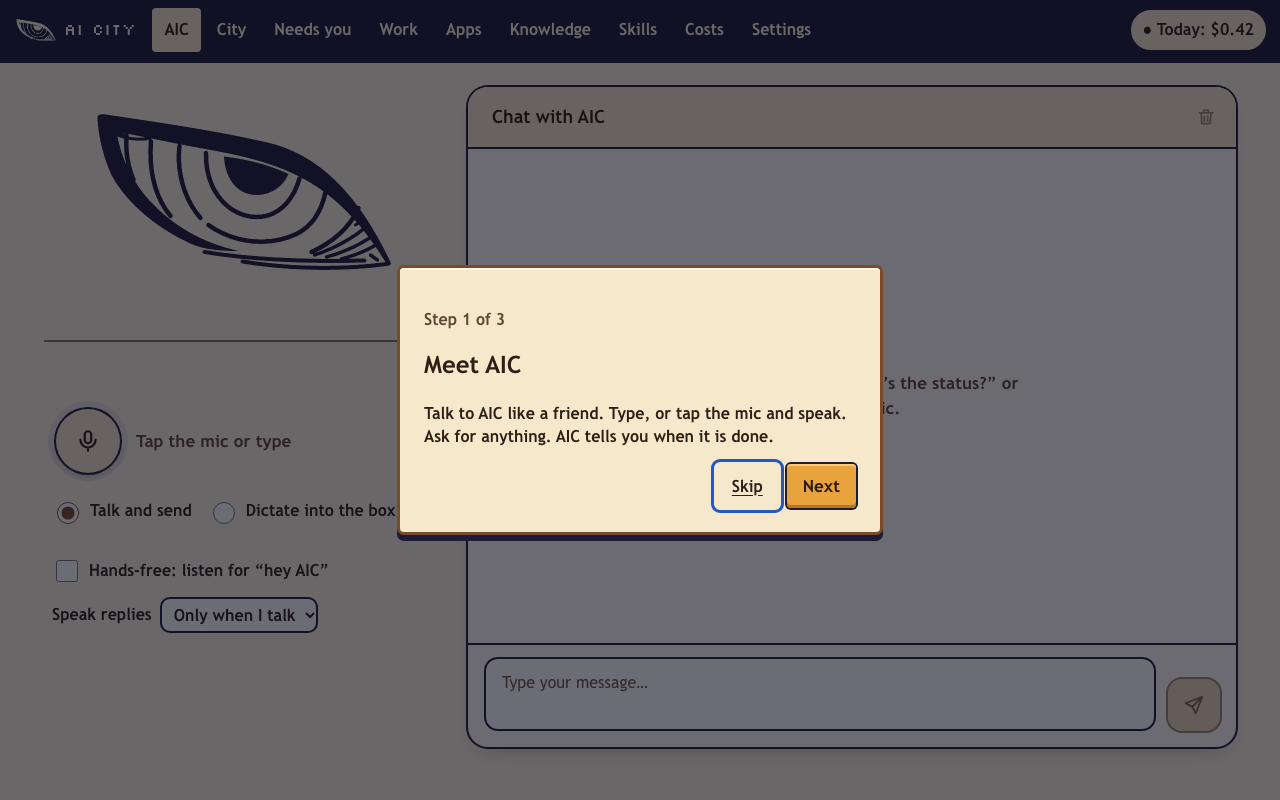
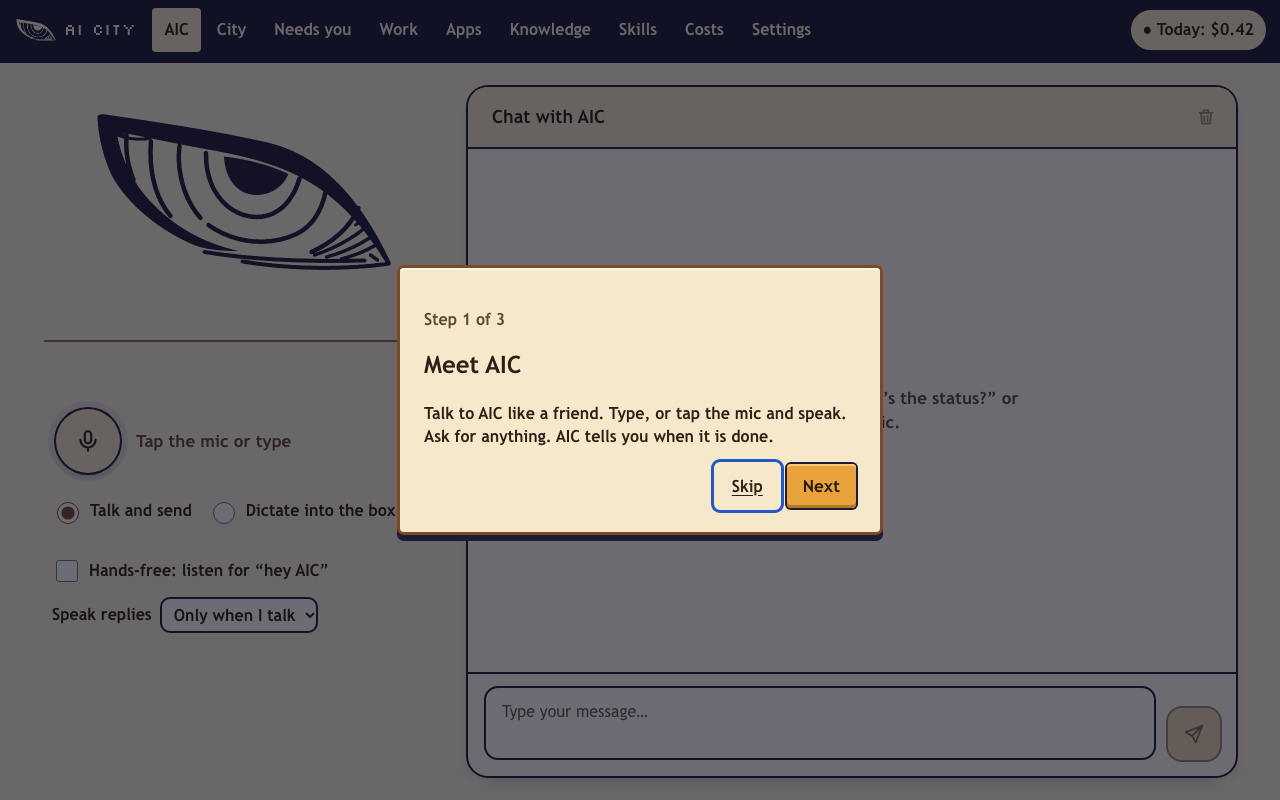
AIC chat: a plain chat, from the top to the bottom of the page
The owner's choice.
- The quick-reply buttons under AIC's replies are removed (chips.ts, their
  rendering, styles, the lastResultAt store field, their tests). Stop all
  work / Resume stays.
- The chat panel runs from just under the top bar to the bottom of the window,
  on desktop and phone: the AIC screen is exactly the area under the top bar,
  the conversation scrolls inside the panel and the message box stays at its
  bottom. The page still never scrolls.

Tests: Playwright checks the panel spans top to bottom with the composer at its
bottom (desktop sizes and 412 px) and that nothing is suggested under a reply
that asks a question; the quick-reply tests are gone.

Changed region(s): [[0.375, 0.8125, 0.9688, 0.9688], [0.6875, 0.4688, 0.8125, 0.5312]]

diff --git a/web/e2e/journeys.spec.ts b/web/e2e/journeys.spec.ts
@@ -504,44 +504,41 @@ test("after a long conversation the AIC screen still fits the window: only the c
       const main = document.querySelector("main")!;
       const chat = document.querySelector(".chat")!;
       const composer = document.querySelector(".composer")!.getBoundingClientRect();
+      const talk = document.querySelector(".talk")!.getBoundingClientRect();
+      const area = main.getBoundingClientRect();
       return {
         page: document.documentElement.scrollHeight <= window.innerHeight + 1,
         main: main.scrollHeight <= main.clientHeight + 1, // the page area never scrolls into empty space
         chatScrolls: chat.scrollHeight > chat.clientHeight,
         composerOnScreen: composer.bottom <= window.innerHeight,
+        // The chat panel runs from just under the top bar to the bottom edge (only the page gutter around it).
+        chatFromTop: talk.top - area.top <= 32,
+        chatToBottom: window.innerHeight - talk.bottom <= 32,
+        composerAtBottom: talk.bottom - composer.bottom <= 4,
       };
     });
-    expect(fit).toEqual({ page: true, main: true, chatScrolls: true, composerOnScreen: true });
+    expect(fit).toEqual({
+      page: true,
+      main: true,
+      chatScrolls: true,
+      composerOnScreen: true,
+      chatFromTop: true,
+      chatToBottom: true,
+      composerAtBottom: true,
+    });
   }
 });
 
-test("quick replies: one tap answers AIC's question, asks how work is going, or stops it", async ({ page }) => {
+test("a plain chat: nothing is suggested under AIC's replies, even after a question", async ({ page }) => {
   const m = await mockBackend(page);
   await page.goto("/");
   await page.getByRole("textbox", { name: "Message to AIC" }).fill("check the GT3 sentences");
   await page.keyboard.press("Enter");
-  const t = { id: "t-gt3", from: "ace", to: "orchestrator", goal: "GT3 sentences", kind: "task", department: null };
-  m.send({ type: "ticket.status", previous: null, ticket: { ...t, status: "open" } });
   m.send({ type: "ace.reply", conversation: "main", text: "On it. Want me to tell you when it's done?", done: true });
-  const chips = page.getByRole("group", { name: "Quick replies" });
-  await expect(chips.getByRole("button")).toHaveText(["Yes", "No", "How's it going?", "Stop it"]);
-  await shot(page, "ace-quick-replies");
-  await chips.getByRole("button", { name: "Yes" }).click();
-  await expect.poll(() => m.calls.filter((c) => c.path === "/messages").at(-1)?.body).toMatchObject({ text: "Yes" });
-  await expect(chips).toHaveCount(0); // gone until AIC answers
-  m.send({ type: "ace.reply", conversation: "main", text: "Will do.", done: true });
-  await chips.getByRole("button", { name: "Stop it" }).click();
-  await expect
-    .poll(() => m.calls.filter((c) => c.path === "/messages").at(-1)?.body)
-    .toMatchObject({ text: "Stop it" });
-
-  // The result comes back: Show me opens the finished work.
-  m.send({ type: "ace.reply", conversation: "main", text: "Stopped.", done: true });
-  m.send({ type: "result", ticket_id: "t-gt3", summary: "GT3 sentences checked." });
-  m.send({ type: "ace.reply", conversation: "main", text: "The GT3 sentences are checked.", done: true });
-  await expect(chips.getByRole("button")).toHaveText(["Show me", "Thanks"]);
-  await chips.getByRole("button", { name: "Show me" }).click();
-  await expect(page.getByRole("heading", { name: "Work" })).toBeVisible();
+  await expect(page.getByLabel("Conversation with AIC").getByText("Want me to tell you when it's done?")).toBeVisible();
+  await expect(page.getByRole("group", { name: "Quick replies" })).toHaveCount(0);
+  for (const label of ["Yes", "No", "How's it going?", "Stop it"])
+    await expect(page.getByRole("button", { name: label, exact: true })).toHaveCount(0);
 });
 
 test("Stop all work shows while something runs, asks once, then offers Resume", async ({ page }) => {

diff --git a/web/src/components/AceScreen.tsx b/web/src/components/AceScreen.tsx
@@ -4,7 +4,6 @@ import { ChatCards } from "./ConnectCard.tsx";
 import { useEffect, useRef, useState, type FormEvent } from "react";
 import { sendMessage, setPaused } from "../lib/actions.ts";
 import { gateStatus } from "../city/city-state.js";
-import { chipsFor } from "../lib/chips.ts";
 import { store, useHud, waitingCount } from "../lib/store.ts";
 import { appendDictation, type SpeakMode } from "../voice/modes.ts";
 import { useVoice } from "../voice/useVoice.ts";
@@ -34,12 +33,10 @@ export function AceScreen({ go }: { go: (view: string) => void }) {
   const live = useHud((s) => s.live);
   const turn = useHud((s) => s.turn);
   const city = useHud((s) => s.city);
-  const lastResultAt = useHud((s) => s.lastResultAt);
   const [confirmStop, setConfirmStop] = useState(false);
   const paused = !!gateStatus(city).paused;
   // Anything still going: open work in the city, or work AIC handed on that has not come back.
   const running = Object.keys(city.tickets ?? {}).length > 0 || chat.some((l) => stepsRunning(l));
-  const chips = chipsFor(chat, lastResultAt);
   /** Stop (pause) or resume all work: the same route as Settings. */
   const pauseAll = async (stop: boolean) => {
     try {
@@ -216,20 +213,6 @@ export function AceScreen({ go }: { go: (view: string) => void }) {
             </article>
           ))}
           <ChatCards cards={cards} />
-          {chips.length && !waitingForAic ? (
-            <div className="chips" role="group" aria-label="Quick replies">
-              {chips.map((c) => (
-                <button
-                  key={c.label}
-                  type="button"
-                  className="chip"
-                  onClick={() => (c.go ? go(c.go) : void sendMessage(c.send ?? c.label))}
-                >
-                  {c.label}
-                </button>
-              ))}
-            </div>
-          ) : null}
           {waitingForAic && turn ? (
             <article className="msg msg-ace msg-pending">
               <AicStatus turn={turn} />

diff --git a/web/src/styles.css b/web/src/styles.css
@@ -439,9 +439,12 @@ main {
   max-width: 1240px;
   margin: 0 auto;
   padding: var(--s5);
-  min-height: 100%;
+  /* Exactly the area under the top bar: the chat panel runs from the top to the bottom of it. */
+  height: 100%;
+  min-height: 0;
   display: grid;
   grid-template-columns: minmax(300px, 400px) minmax(0, 1fr);
+  grid-template-rows: minmax(0, 1fr);
   gap: var(--s5);
   color: var(--text);
 }
@@ -596,9 +599,8 @@ main {
 .talk {
   display: flex;
   flex-direction: column;
+  height: 100%;
   min-height: 0;
-  height: calc(100dvh - 140px);
-  min-height: 460px;
   background: var(--sheet);
   border-radius: 20px;
   box-shadow:
@@ -619,29 +621,6 @@ main {
   margin: 0;
   font-size: 18px;
   font-weight: 800;
-}
-/* Quick replies under AIC's latest reply: big, obvious, one tap. */
-.chips {
-  display: flex;
-  flex-wrap: wrap;
-  gap: var(--s2);
-  padding-left: 0;
-}
-.chip {
-  min-height: var(--tap);
-  padding: 0 var(--s4);
-  border: 2px solid var(--ink);
-  border-radius: 999px;
-  background: var(--sheet);
-  color: var(--text);
-  font-weight: 700;
-  cursor: pointer;
-}
-.chip:hover {
-  background: var(--paper);
-}
-.chip:active {
-  transform: translateY(1px);
 }
 .talk-head .stop-all {
   margin-left: auto;
@@ -960,6 +939,7 @@ main {
 @media (max-width: 899px) {
   .ace {
     grid-template-columns: minmax(0, 1fr);
+    grid-template-rows: auto minmax(0, 1fr); /* the eye and voice line, then the chat to the bottom */
     padding: var(--s3);
     gap: var(--s4);
   }
@@ -1000,8 +980,7 @@ main {
     padding: 0;
   }
   .talk {
-    height: calc(100dvh - 470px);
-    min-height: 360px;
+    min-height: 320px; /* very short screens scroll the page rather than squash the chat */
   }
   .chat {
     padding: var(--s4);

diff --git a/web/src/lib/store.ts b/web/src/lib/store.ts
@@ -52,8 +52,6 @@ export interface HudState {
   presence: Presence;
   settings: Record<string, unknown> | null;
   turn: AceTurn | null;
-  /** When the latest result of handed-on work came back (drives the "Show me" / "Thanks" quick replies). */
-  lastResultAt: number | null;
   cards: ConnectCardState[];
 }
 
@@ -77,7 +75,6 @@ class Store {
     presence: "idle",
     settings: null,
     turn: null,
-    lastResultAt: null,
     cards: [],
   };
   private listeners = new Set<Listener>();
@@ -117,10 +114,7 @@ class Store {
 
   /** Links the ticket AIC opens to its reply, and settles it when it finishes or its result comes back. */
   private taskEvent(e: { type: string; [k: string]: unknown }) {
-    if (e.type === "result" && typeof e.ticket_id === "string") {
-      this.set({ lastResultAt: Date.now() });
-      return this.settleTasks((id) => id === e.ticket_id);
-    }
+    if (e.type === "result" && typeof e.ticket_id === "string") return this.settleTasks((id) => id === e.ticket_id);
     if (e.type !== "ticket.status") return;
     const t = e.ticket as { id: string; from: string; status: string } | undefined;
     if (!t) return;

diff --git a/web/e2e/phone.spec.ts b/web/e2e/phone.spec.ts
@@ -29,7 +29,9 @@ test("phone: AIC and the City work at 412px wide", async ({ page }) => {
   expect(
     await page.evaluate(() => {
       const main = document.querySelector("main")!;
-      return main.scrollHeight <= main.clientHeight + 1; // nothing below the chat to scroll to
+      const talk = document.querySelector(".talk")!.getBoundingClientRect();
+      // Nothing below the chat to scroll to, and the chat reaches the bottom edge (only the page gutter).
+      return main.scrollHeight <= main.clientHeight + 1 && window.innerHeight - talk.bottom <= 20;
     }),
   ).toBe(true);
   await page.locator(".talk").screenshot({ path: `${SHOTS}/phone-ace-chat.png` });

diff --git a/docs/PRODUCT.md b/docs/PRODUCT.md
@@ -176,8 +176,9 @@ Terraform (offline only): `fmt -check -recursive`, `init -backend=false`, `valid
 | 2026-11-07 | AIC answers simple requests itself | The owner's example (“50 sentences on how the GT3's flat-six differs from the GT3 RS's”) went to the team. Now AIC's prompt says to answer questions, lists, drafts and comparisons itself, and `delegate_to_orchestrator` first runs the Orchestrator's quick triage on the utility model (`agents/utility/triage.md`, one short Haiku call, cached per request, costed as a utility turn): `self` → no task, AIC answers in the same turn; `department`/`new_department` → delegated as before with the hint in the Orchestrator's brief (it keeps the final say). AIC's direct engine allows 4,096 output tokens. |
 | 2026-11-07 | AIC always on | The owner measured 8–9 s to the first word after a quiet spell, then 5, then 3 s steady: the warm ping kept the container up but the path still paid first-use costs. Now every warm ping (every 2 min, and right after a deploy) also readies the HUD WebSocket sender, reads the ledger once and asks AIC's model for one token in the background (`aic.runtime.warm`, logged as `aic.warm`); AIC's runtime creates its Bedrock client at start; and the dispatcher and ws-broadcast Lambdas are always on (published version, `live` alias, provisioned concurrency 1, every trigger on the alias; about $14/month). |
 | 2026-11-07 | AIC kept warm | The scheduler's `warm_ace` job (every 5 min, enabled) pings AIC's runtime on the owner's conversation session; the runtime answers `{"kind":"warm"}` at once; AIC's session lifetime is 8 h with a 30-min idle window; the deploy warms AIC right after apply. A message no longer pays the container's cold start (decision 83). |
+| 2026-11-07 | A plain chat, full height | The owner's choice: the quick-reply buttons under AIC's replies are removed (they kept offering the same "How's it going?" / "Stop it"); the AIC chat is a normal chat with nothing suggested. Stop all work / Resume stays. The chat panel now runs from just under the top bar to the bottom of the window (desktop and phone), the conversation scrolls inside it and the message box stays at its bottom; the page itself still never scrolls. |
 | 2026-11-07 | Voice from Frankfurt, browser fallback | CloudTrail showed the identity-pool exchange succeeding and Transcribe streaming itself refusing the account in eu-north-1 ("Your account isn't authorized to call this operation"). Transcribe streaming and its custom vocabulary now run in `transcribe_region` (eu-central-1, a `speech` provider alias; the old eu-north-1 vocabulary is removed), `config.json` carries `transcribeRegion`, the CSP allows Transcribe there, and the voice role stays region-free; the identity pool stays in eu-north-1. If Transcribe still refuses the stream (4xx, NotAuthorized, no connection) before anything was heard, the HUD switches to the browser's own speech recognition (`SpeechRecognition` / `webkitSpeechRecognition`) for the rest of the page session, with the same Talk and send / Dictate behaviour and live partials, and says so once; the next page load tries Transcribe again. Microphone problems (permission, no device) and a page opened before a deploy never switch. Tested in Chromium with a fake microphone and a fake recognizer; not yet against real Transcribe in Frankfurt or real Safari recognition. `web/src/voice/browserSpeech.ts`. |
-| 2026-11-07 | Easy enough for a child | The owner's request ("idiot proof, so a 7 year old could use it"). Quick replies under AIC's latest reply, one tap each: Yes / No when it asks a question; How's it going? / Stop it while work it handed on runs; Show me / Thanks after a result comes back (Show me opens Work). A Stop all work button in the chat header whenever something runs (one confirm, the same pause route as Settings) and a Resume in the banner while stopped. Plain words: the menu says Work (was Tickets); the steps under a reply say What I did · 7 s, or Working on it: … while running; steps read Checking how things are going and Passing this to my team; the money pill says Today: $2.07 and names a daily limit only from half of it; Costs names the AWS budget as an alert (Alert at $10,000 a month, from `budgetAlertUsd` in config.json), never as a limit; limits are called limits, not caps; the first-run guide's three steps are one or two short sentences; error and empty states are short sentences with one next action. Also fixed: "AIC is thinking" could come back after AIC had already answered. Note: the owner's saved settings hold a daily limit of $10,000 (`daily_global_usd`), which is enforced; clear it in Settings to have none. `web/src/lib/chips.ts`, `AceScreen.tsx`, `SpendPill.tsx`. |
+| 2026-11-07 | Easy enough for a child | The owner's request ("idiot proof, so a 7 year old could use it"). Quick replies (removed later the same day) under AIC's latest reply, one tap each: Yes / No when it asks a question; How's it going? / Stop it while work it handed on runs; Show me / Thanks after a result comes back (Show me opens Work). A Stop all work button in the chat header whenever something runs (one confirm, the same pause route as Settings) and a Resume in the banner while stopped. Plain words: the menu says Work (was Tickets); the steps under a reply say What I did · 7 s, or Working on it: … while running; steps read Checking how things are going and Passing this to my team; the money pill says Today: $2.07 and names a daily limit only from half of it; Costs names the AWS budget as an alert (Alert at $10,000 a month, from `budgetAlertUsd` in config.json), never as a limit; limits are called limits, not caps; the first-run guide's three steps are one or two short sentences; error and empty states are short sentences with one next action. Also fixed: "AIC is thinking" could come back after AIC had already answered. Note: the owner's saved settings hold a daily limit of $10,000 (`daily_global_usd`), which is enforced; clear it in Settings to have none. `web/src/lib/chips.ts`, `AceScreen.tsx`, `SpendPill.tsx`. |
 | 2026-11-07 | AIC screen fits the window; mic errors named | The AIC screen no longer scrolls into empty space below the chat: the visually hidden "You:"/"AIC:" labels were positioned against `<main>` and stretched its scroll area; the chat log is now their containing block. The mic's AudioContexts are created and resumed synchronously inside the tap (Safari), a context the browser keeps suspended is reported instead of hanging, and every failure names its cause: a page opened before a deploy ("reload"), paused audio, a blocked connection, the speech sign-in, or the browser's own error name and message (no bare generic sentence). Tested in Chromium with a fake microphone up to the AWS call; Safari and the real Transcribe connection still need the owner's browser. |
 | 2026-11-07 | Stay signed in | The owner's choice: sign in once per device and open AI City later already signed in, even weeks later. Amplify keeps the tokens in `localStorage` (was `sessionStorage`), the Cognito refresh token lives 365 days (was 7) with rotation still on, and the HUD refreshes silently on start. The device is now the trust boundary (docs/SECURITY.md). |
 | 2026-11-07 | iPhone app: sign in once | The owner's request: open the app weeks later and be signed in. The refresh token stays in the Keychain (readable after first unlock, never synced), launch and foreground refresh silently and reconnect, rotated tokens are stored each time, and a refresh race that could sign the owner out is fixed. Sign-in shows only when Cognito refuses the refresh token (decision 85). |
